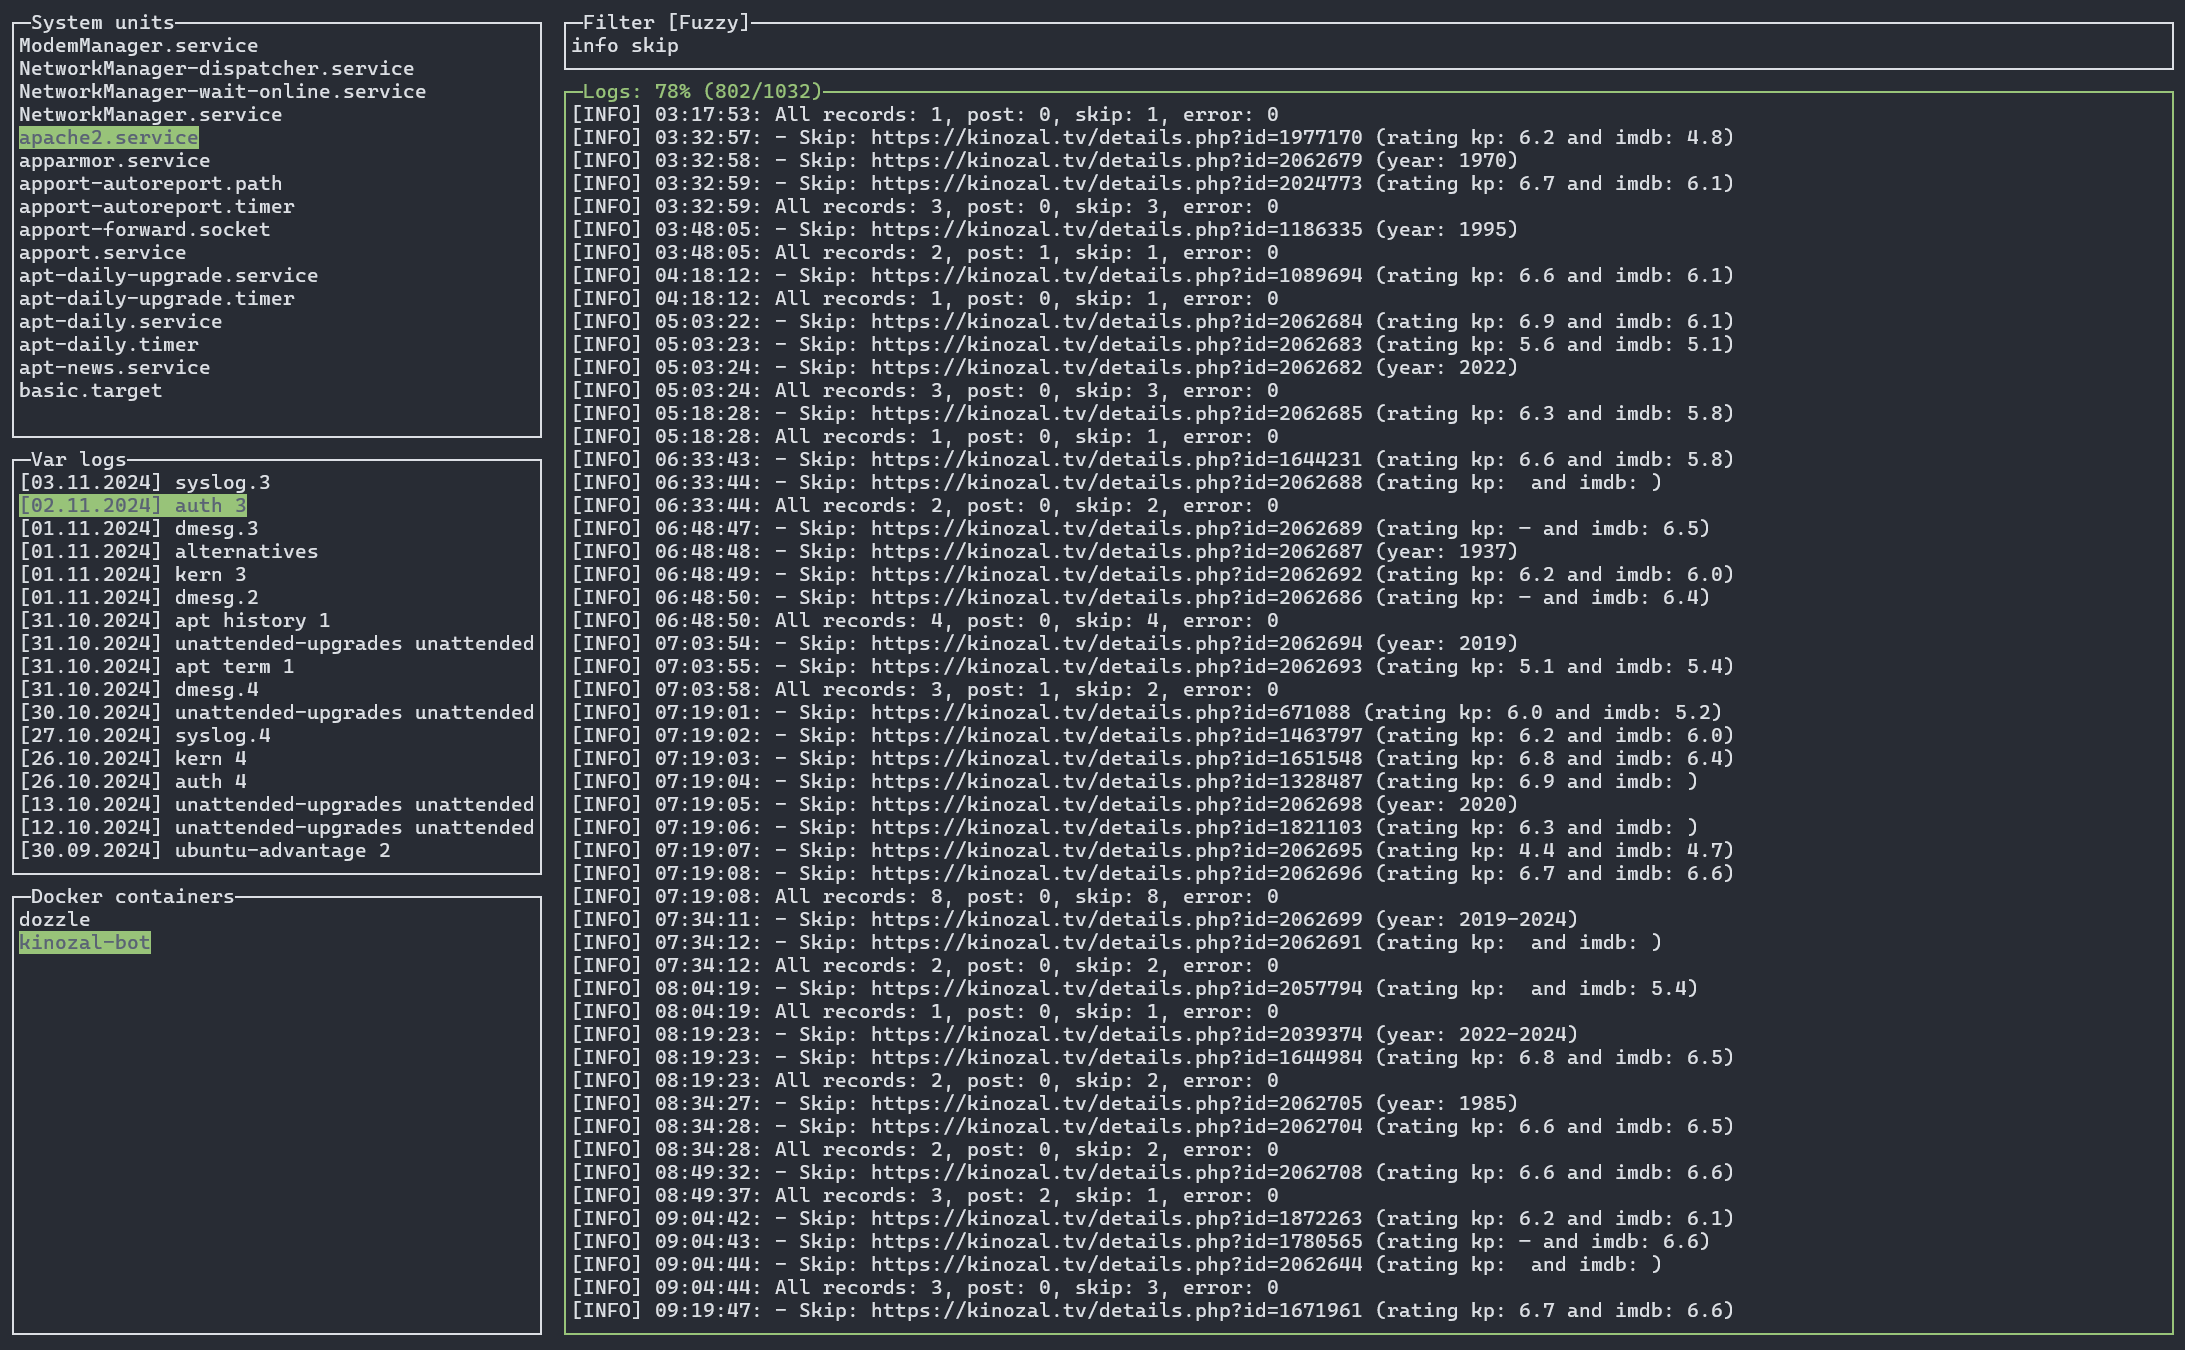
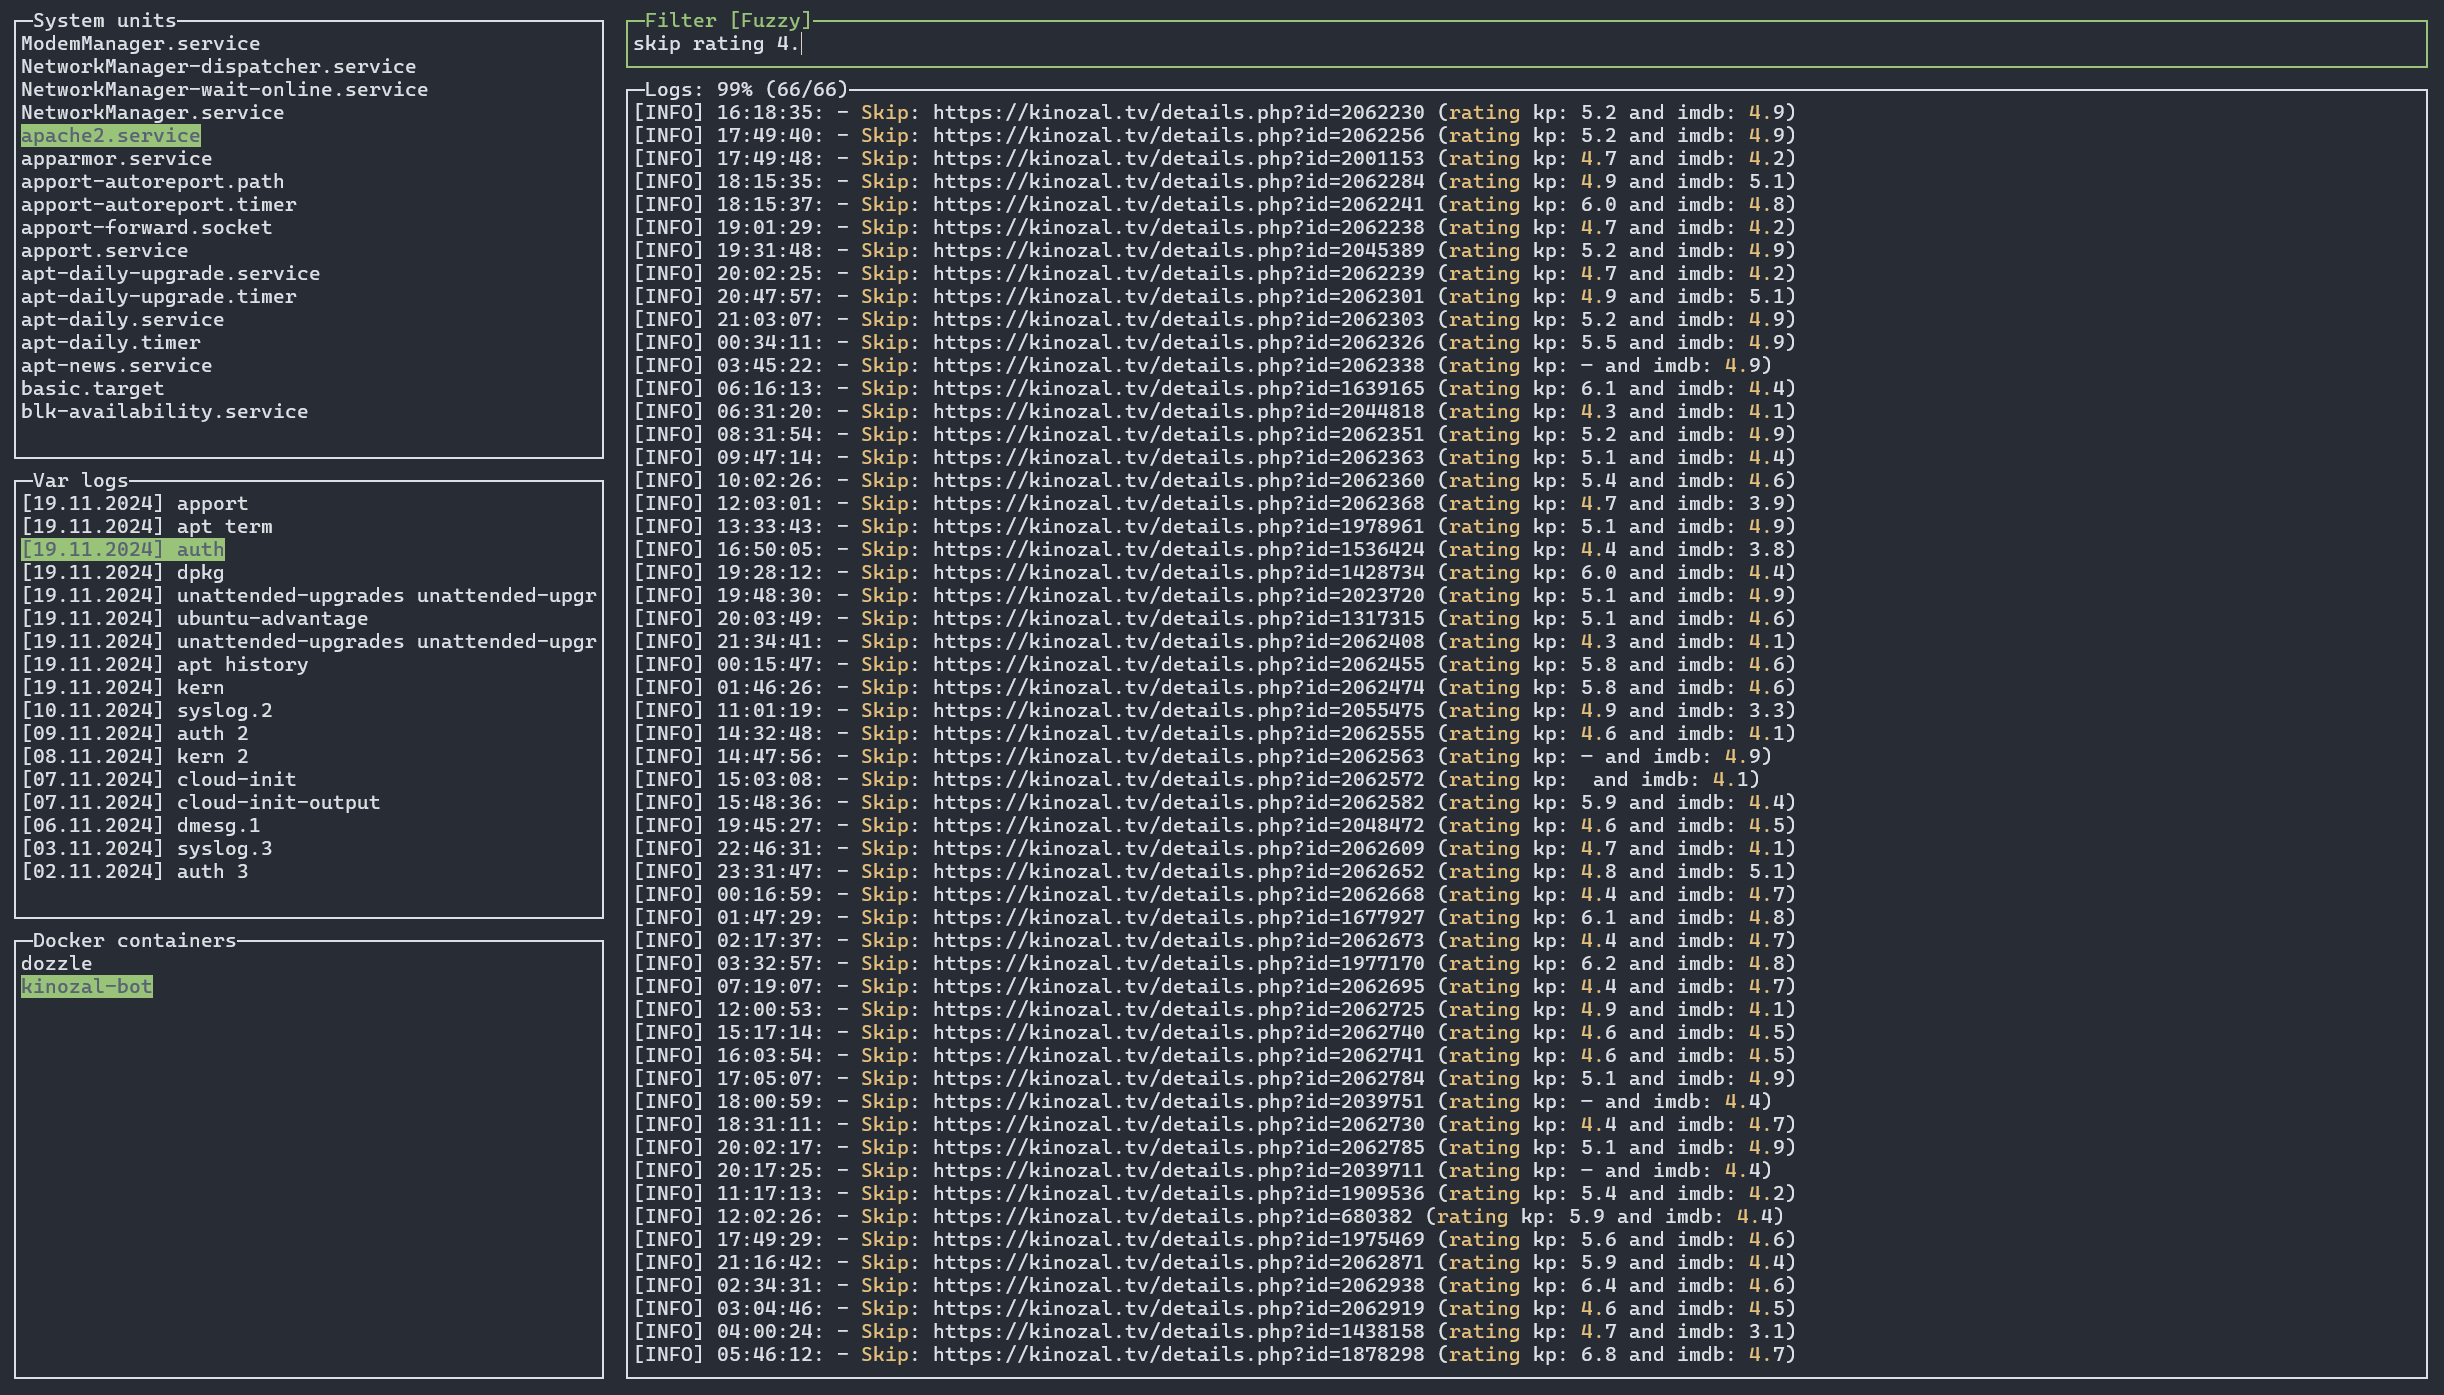
update interface exmaple and added filter modes

Changed region(s): [[0.0, 0.0, 0.9959, 0.9956], [0.9648, 0.9644, 0.9959, 0.9956]]

diff --git a/README.md b/README.md
@@ -8,11 +8,19 @@ This tool is inspired by and with love for [lazydocker](https://github.com/jesse
 
 ![interface](/img/interface.png)
 
+## Filter
+
+Supported 3 filtering modes:
+
+- **[Default]** - case sensitive exact search.
+- **[Fuzzy]** - imprecise case-insensitive search (searches for all phrases separated by a space anywhere in the string).
+- **[Regex]** - search with regular expression support, case insensitive by default (in case a regular expression syntax error occurs, the input field will be highlighted in red).
+
 ## Roadmap
 
 - [X] Sorting logs by modification date and support archived logs from `/var/log` directory.
 - [X] Support fuzzy find and regular expression to filter output.
-- [ ] Backgound color of the found word when filtering.
+- [X] Backgound color of the found word when filtering.
 - [ ] Filter for log lists.
 - [ ] Background checking and updating the log when data changes.
 - [ ] Syntax coloring for logging output.
@@ -23,7 +31,7 @@ This tool is inspired by and with love for [lazydocker](https://github.com/jesse
 - [ ] Podman log support.
 - [ ] Support remote machines via `ssh` protocol.
 
-<!-- ## Install
+## Install
 
 Download the executable from the GitHub repository to the current user's home directory, and grant execution permissions:
 
@@ -32,7 +40,7 @@ version="0.1.0"
 mkdir -p ~/.local/bin
 curl -s https://github.com/Lifailon/lazyjournal/releases/download/$version/lazyjorunal-$version-linux-arm64 -o ~/.local/bin/lazyjorunal
 chmod +x ~/.local/bin/lazyjorunal
-``` -->
+```
 
 ## Build
 
@@ -62,10 +70,10 @@ bin/lazyjournal
 ## Hotkeys
 
 - `Tab` - Switch between windows.
+- `Enter` - Select a journal from the list to display logs.
 - `Up/Down` - Move up or down through all journal lists and log output.
 - `Shift+<Up/Down>` - Quickly move up or down (every 10 lines) through all journal lists and log output.
-- `Enter` - Select a journal from the list to display logs.
-- `<Shift/Alt>+<Left/Right>` - Changing the mode in the filtering window. Available: **default**, **fuzzy** and **regex**.
+- `<Shift/Alt>+<Left/Right>` - Changing the mode in the filtering window. Available: **Default**, **Fuzzy** and **Regex**.
 - `Ctrl+C` - Exit.
 
 ## Alternatives
